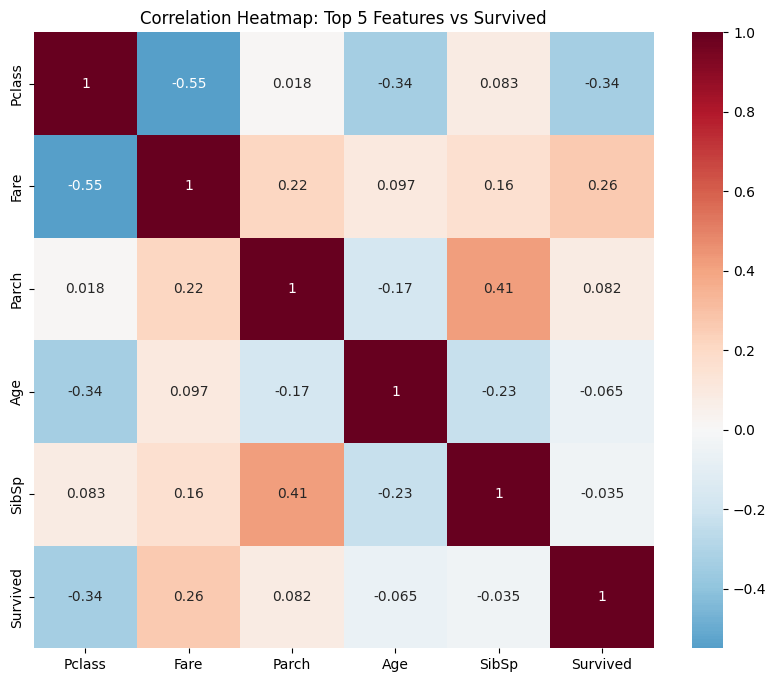
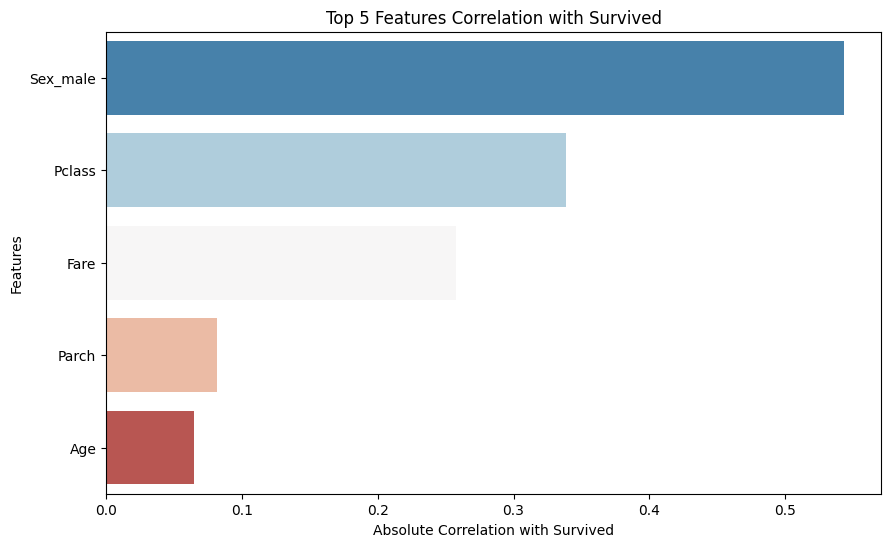
fix:use clean data

diff --git a/week-03-04-powerbi/machine_learning/src_py/all.py b/week-03-04-powerbi/machine_learning/src_py/all.py
@@ -1,0 +1,224 @@
+
+# !pip install boto3
+
+import boto3
+import pandas as pd
+import urllib.request
+import seaborn as sns
+import matplotlib.pyplot as plt
+
+
+from sklearn.model_selection import train_test_split
+from sklearn.linear_model import LogisticRegression
+from xgboost import XGBClassifier
+from sklearn.metrics import f1_score, confusion_matrix, ConfusionMatrixDisplay
+import matplotlib.pyplot as plt
+
+
+
+
+import joblib
+from github import Github, Auth
+from datetime import datetime
+
+
+
+
+AWS_ACCESS_KEY_ID ='AKIASFKCF2FR4UJJLYR3'
+AWS_SECRET_ACCESS_KEY ='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'
+REGION_NAME = 'eu-north-1'
+BUCKET_NAME = 'jiajun-zhang'
+
+# Initialize the Boto3 S3 Client
+s3_client = boto3.client(
+    's3',
+    aws_access_key_id=AWS_ACCESS_KEY_ID,
+    aws_secret_access_key=AWS_SECRET_ACCESS_KEY,
+    region_name=REGION_NAME
+)
+
+ # Fetch the raw Titanic dataset
+url = "https://raw.githubusercontent.com/datasciencedojo/datasets/master/titanic.csv"
+raw_filename = "titanic_raw.csv"
+urllib.request.urlretrieve(url, raw_filename)
+
+# Push the raw dataset to S3
+print(f"Uploading '{raw_filename}' to S3 bucket '{BUCKET_NAME}'...")
+s3_client.upload_file(raw_filename, BUCKET_NAME, raw_filename)
+print("✅ Raw upload complete!")
+
+
+
+# import pandas as pd
+
+# 1. 读取原始数据
+raw_filename = "titanic_raw.csv"
+df = pd.read_csv(raw_filename)
+
+# 2. 处理缺失值
+# Age 用中位数填充
+df['Age'].fillna(df['Age'].median(), inplace=True)
+
+# Embarked 用众数填充
+df['Embarked'].fillna(df['Embarked'].mode()[0], inplace=True)
+
+# 删除 Cabin 列（缺失率太高）
+df.drop('Cabin', axis=1, inplace=True)
+
+# 3. 类别变量编码
+# Sex 映射为数值
+df['Sex_male'] = (df['Sex'] == 'male').astype(int)  # 1=男, 0=女
+df.drop('Sex', axis=1, inplace=True)
+
+# Embarked 独热编码
+df = pd.get_dummies(df, columns=['Embarked'], drop_first=True)
+
+# 4. 保存清洗后的数据
+clean_filename = "titanic_clean.csv"
+df.to_csv(clean_filename, index=False)
+
+print(f"数据清洗完成，已保存为 {clean_filename}")
+
+
+
+# 读取清洗后的数据
+df_clean = pd.read_csv("titanic_clean.csv")
+print("清洗后数据形状:", df_clean.shape)
+
+# 注意：这里要用 df_clean，而不是 df
+numeric_df = df_clean.select_dtypes(include=['number'])
+correlations = numeric_df.corr()['Survived'].abs().sort_values(ascending=False)
+top_5_features = correlations.iloc[1:6].index.tolist()
+
+print(f"Selected Top 5 Features: {top_5_features}")
+
+
+# 2. Visualization - Histogram/Bar Chart
+# plt.figure(figsize=(10, 6))
+# # 只取前5个特征的相关系数（不包含Survived自己）
+# top_corr = correlations.iloc[1:6]
+# sns.barplot(x=top_corr.values, y=top_corr.index, palette='RdBu_r')
+# plt.xlabel('Absolute Correlation with Survived')
+# plt.ylabel('Features')
+# plt.title('Top 5 Features Correlation with Survived')
+# plt.show()
+
+
+
+
+# Prepare data using the top 5 features selected in the previous step
+X = df[top_5_features]
+y = df['Survived']
+
+# Split the dataset into training (80%) and testing (20%) sets
+X_train, X_test, y_train, y_test = train_test_split(X, y, test_size=0.2, random_state=42)
+
+# --- Model 1: Logistic Regression ---
+lr_model = LogisticRegression()
+lr_model.fit(X_train, y_train)
+lr_pred = lr_model.predict(X_test)
+lr_f1 = f1_score(y_test, lr_pred)
+
+# --- Model 2: XGBoost ---
+xgb_model = XGBClassifier()
+xgb_model.fit(X_train, y_train)
+xgb_pred = xgb_model.predict(X_test)
+xgb_f1 = f1_score(y_test, xgb_pred)
+
+# Print performance results
+print(f"Logistic Regression F1 Score: {lr_f1:.4f}")
+print(f"XGBoost F1 Score: {xgb_f1:.4f}")
+
+# Compare models and select the one with the higher F1 score
+best_model_name = "XGBoost" if xgb_f1 > lr_f1 else "Logistic Regression"
+print(f"The better performing model is: {best_model_name}")
+
+# --- Plot as Histogram/Bar Chart ---
+# models = ['Logistic Regression', 'XGBoost']
+# f1_scores = [lr_f1, xgb_f1]
+
+# plt.figure(figsize=(8, 6))
+# plt.bar(models, f1_scores, color=['#3498db', '#e74c3c'])
+# plt.xlabel('Model')
+# plt.ylabel('F1 Score')
+# plt.title('Model Performance Comparison (F1 Score)')
+# plt.ylim(0, 1)  # F1 score range is 0 to 1
+
+# # Add value labels on top of bars
+# for i, v in enumerate(f1_scores):
+#     plt.text(i, v + 0.02, f'{v:.4f}', ha='center')
+
+# plt.show()
+
+# 1. Save the best model as a .pkl file
+MODEL_FILE = 'best_titanic_model.pkl'
+# Select the model with the higher F1 score (Logic from Step 6)
+best_model = xgb_model if xgb_f1 > lr_f1 else lr_model
+joblib.dump(best_model, MODEL_FILE)
+print(f"Model successfully saved as {MODEL_FILE}")
+
+# 2. Upload the model to AWS S3
+# Ensure the path aligns with the machine_learning folder requirement
+s3_path = f"machine_learning/{MODEL_FILE}"
+s3.upload_file(MODEL_FILE, BUCKET_NAME, s3_path)
+print(f"Model successfully uploaded to S3 bucket: {s3_path}")
+
+# 3. Upload the model to GitHub and update the Audit Trail
+# --- GitHub Configuration ---
+STUDENT_TOKEN = ''
+REPO_NAME = 'Jiajunzhang88/mds7-Jiajun-Zhang'
+GITHUB_TARGET_PATH = f"week-03-04-powerbi/machine_learning/{MODEL_FILE}"
+
+auth = Auth.Token(STUDENT_TOKEN)
+g = Github(auth=auth)
+repo = g.get_repo(REPO_NAME)
+
+# Read the binary content of the saved model
+with open(MODEL_FILE, 'rb') as f:
+    content = f.read()
+
+try:
+    # Attempt to update the file if it already exists in the repository
+    contents = repo.get_contents(GITHUB_TARGET_PATH, ref="main")
+    repo.update_file(
+        contents.path, 
+        "Update trained model for Lecture 4", 
+        content, 
+        contents.sha, 
+        branch="main"
+    )
+    print("GitHub: Model file updated successfully")
+except:
+    # Create the file if it does not exist
+    repo.create_file(
+        GITHUB_TARGET_PATH, 
+        "Initial upload of trained model for Lecture 4", 
+        content, 
+        branch="main"
+    )
+    print("GitHub: Model file created successfully")
+
+# Update AUDIT_TRAIL.md
+print("Updating AUDIT_TRAIL.md...")
+try:
+    audit_file = repo.get_contents("AUDIT_TRAIL.md", ref="main")
+    current_content = audit_file.decoded_content.decode('utf-8')
+    date_str = datetime.now().strftime("%Y-%m-%d")
+ 
+    new_entry = f"""
+    ## Week 4: Titanic ML Project
+    * **Date:** {date_str}
+    * **Milestone:** Lecture 4 ML Pipeline Task Completed. BestModel: {best_model_name}.
+    * **Notes:** Trained {best_model_name} using top 5 features ({features_txt}). Achieved F1 score of {f1_val:.4f}. Model artifacts (.pkl) and notebook pushed to S3 and GitHub 'machine_learning' folder.
+    """
+    updated_content = current_content + new_entry
+    repo.update_file(
+        path="AUDIT_TRAIL.md",
+        message="Update Audit Trail for Week 4 pipeline",
+        content=updated_content,
+        sha=audit_file.sha,
+        branch="main"
+    )
+    print("AUDIT_TRAIL.md updated successfully.")
+except Exception as e:
+    print(f"Error updating audit trail: {e}")

diff --git a/AUDIT_TRAIL.md b/AUDIT_TRAIL.md
@@ -14,13 +14,4 @@
 * **Milestone:** Uploaded `titanic_clean.csv` to the `week-03-04-powerbi` directory.
 * **Notes:** Built an ETL pipeline fetching raw Titanic data from AWS S3, engineered it in Colab (handling nulls and dummy variables), pushed the processed data back to S3, and synced it to GitHub for visualization in PowerBI.
 
-    ## Week 4: Titanic ML Project
-    * **Date:** 2026-04-28
-    * **Milestone:** Lecture 4 ML Pipeline Task Completed. BestModel: Logistic Regression.
-    * **Notes:** Trained Logistic Regression using top 5 features (Pclass, Fare, Parch, Age, SibSp). Achieved F1 score of 0.6066. Model artifacts (.pkl) and notebook pushed to S3 and GitHub 'machine_learning' folder.
-    
-    ## Week 4: Titanic ML Project
-    * **Date:** 2026-04-29
-    * **Milestone:** Lecture 4 ML Pipeline Task Completed. BestModel: XGBoost.
-    * **Notes:** Trained XGBoost using top 5 features. Model artifacts (.pkl) and notebook pushed to S3 and GitHub 'machine_learning' folder.
     
